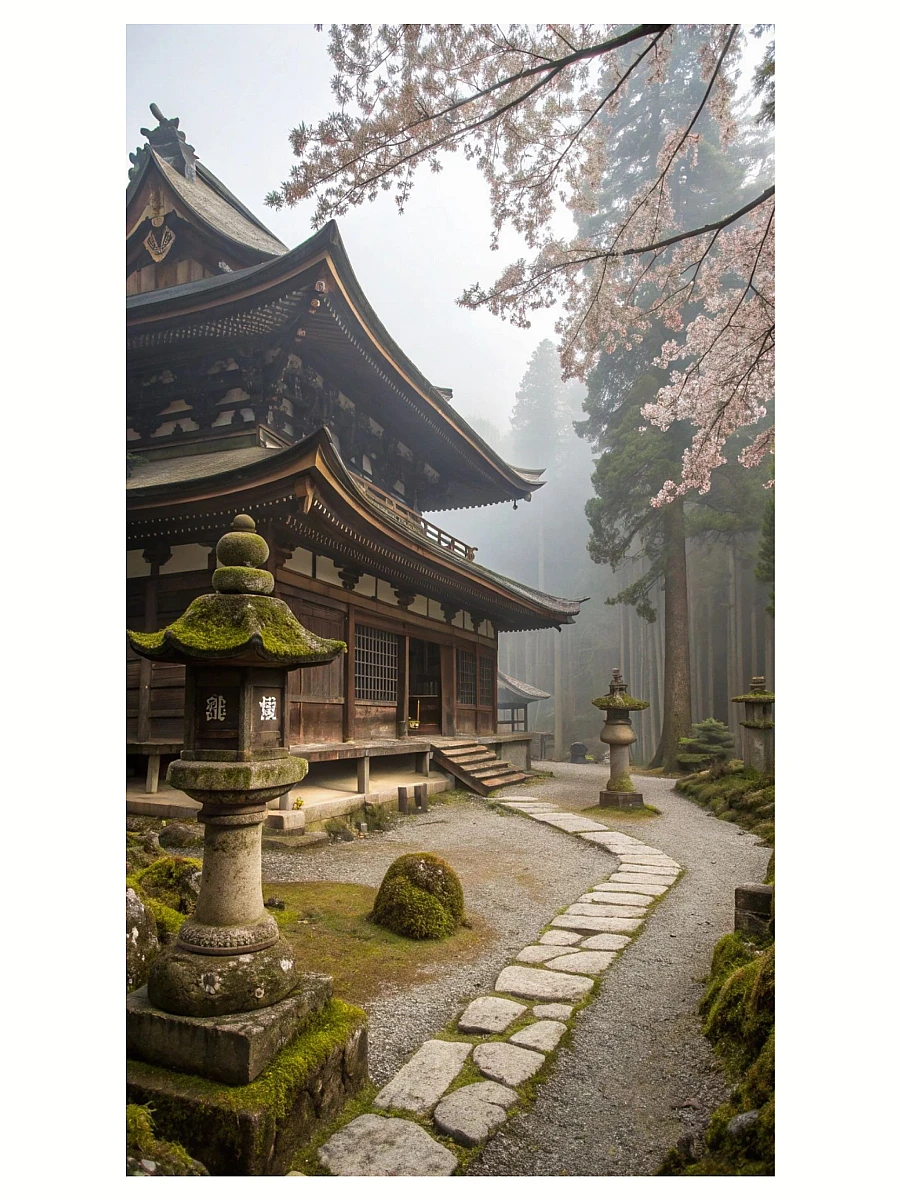
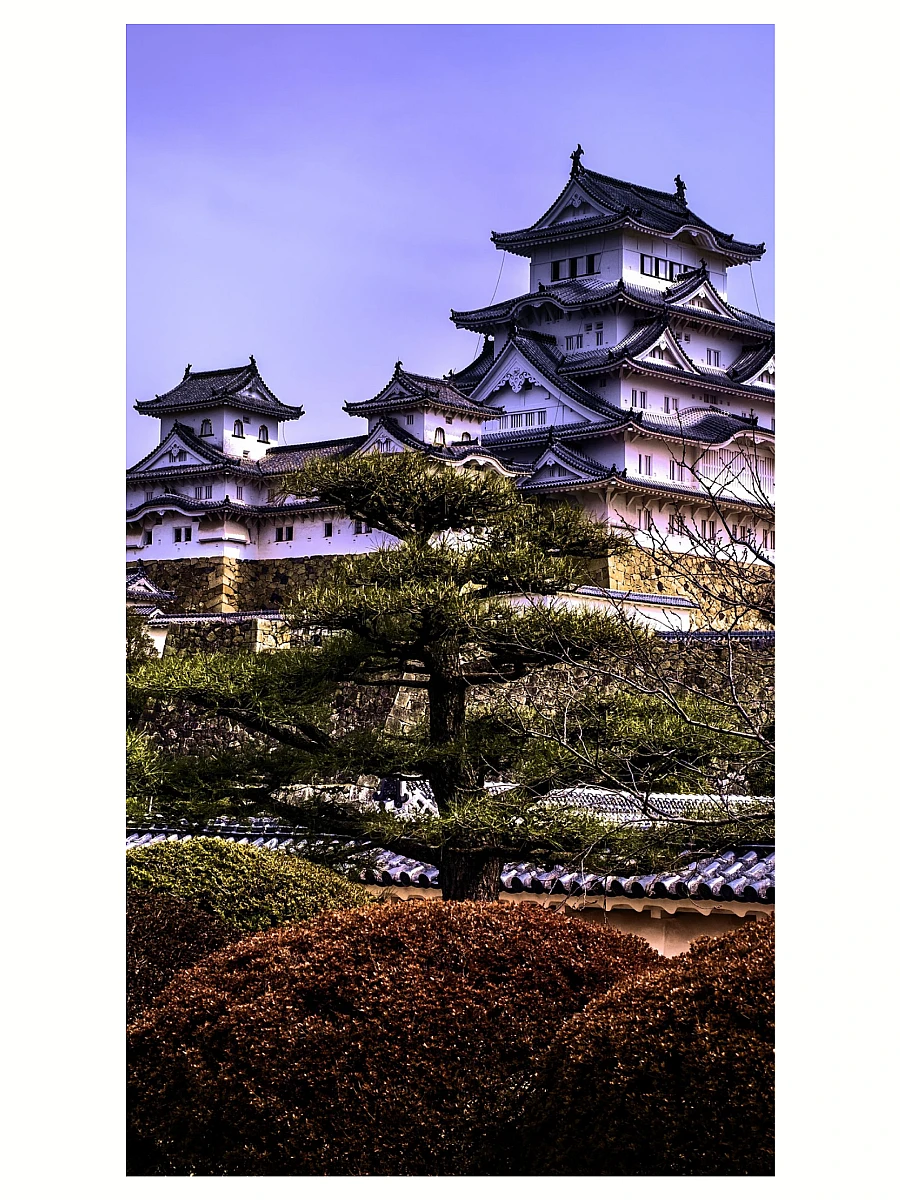
new version

diff --git a/public/start_pocket/js/functions/editor.js b/public/start_pocket/js/functions/editor.js
@@ -63,56 +63,6 @@ export default function initEditorProduct() {
   // delete
   // ============================================
 
-  /*
-  let deleteHandlerBound = false;
-
-  function setupDeleteHandler() {
-    if (deleteHandlerBound) return;
-    deleteHandlerBound = true;
-
-    if (!deleteBtn) return;
-
-    deleteBtn.addEventListener('click', async () => {
-      if (currentMode !== 'edit') return;
-
-      const outerId = idInput?.value?.trim();
-      if (!outerId) {
-        alert('Не найден outer_id для удаления.');
-        return;
-      }
-
-      const ok = confirm('ПОДТВЕРДИТЬ УДАЛЕНИЕ ПРОДУКТА?');
-      if (!ok) return;
-
-      const fd = new FormData();
-      fd.append('mode', 'delete');
-      fd.append('outer_id', outerId);
-      fd.append('slug', getSlug());
-
-      try {
-        const resp = await fetch('/editor', {
-          method: 'POST',
-          body: fd,
-          credentials: 'same-origin'
-        });
-
-        if (!resp.ok) throw new Error(`Ошибка удаления: ${resp.status}`);
-
-        const res = await resp.json();
-        if (res?.success) location.reload();
-        else alert(res?.error || 'Удаление не удалось');
-      } catch (err) {
-        console.error('❌ Ошибка:', err);
-        alert('Ошибка: ' + err.message);
-      }
-    });
-  }
-  // вызови один раз после того как заполнены idInput/deleteBtn
-  setupDeleteHandler();  
-  */
-
-  // предполагаем: deleteBtn, currentMode, idInput определены где-то выше
-
   function setupDeleteHandler() {
     if (!deleteBtn) return;
 
@@ -169,7 +119,7 @@ export default function initEditorProduct() {
 
   function setToolbarState(state) {
     currentMode = state;
-    console.log('Переход в режим:', state);
+    console.log('Переход в режим:', state); // test
 
     // outer_id (id) доступен только в режиме edit (обычно)
     const hasOuterId = !!idInput?.value?.trim();

diff --git a/public/start_pocket/js/main.js b/public/start_pocket/js/main.js
@@ -15,8 +15,10 @@ document.addEventListener('DOMContentLoaded', async () => {
 /********************** Editor **********************/
 
 document.addEventListener('DOMContentLoaded', async () => {
-  const { default: initEditorProduct } = await import('./functions/editor.js');
-  initEditorProduct();
+  if (window.__ROLE__ === 'master' || window.__ROLE__ === 'assistant') {
+    const { default: initEditorProduct } = await import('./functions/editor.js');
+    initEditorProduct();
+  }
 });
 
 /*********************** Tooltip ************************/
@@ -39,7 +41,12 @@ document.addEventListener("DOMContentLoaded", async () => {
   initAchievement();
 });
 
-/********************************************/
+/********************* Search Form ***********************/
+
+document.addEventListener('DOMContentLoaded', async () => {
+  const { initSearchForm } = await import('./functions/search_form.js');
+  initSearchForm({ formId: 'search', inputId: 'input' });
+});
 
 /**********************************************************/
 
@@ -466,10 +473,11 @@ $(document).ready(function() {
     window.scrollTo({ top: 0, behavior: 'smooth' });
   });
 
-  /* ------- развернуть форму поиска ------- *//*
-    
+  /* ------- развернуть форму поиска ------- */
+ 
+  /*
   $('#submit').on('click', function(e) {
-    .preventDefault();        
+    e.preventDefault();        
     let form = $(this).parent();
     let inputSearch = form.find('#input');
     inputSearch.toggleClass('hide').focus();
@@ -479,6 +487,11 @@ $(document).ready(function() {
     }
 
   });
+  */
+
+
+
+
 
   /* --- спрятать кнопку поиска при scroll --- *//*
   

diff --git a/public/start_pocket/js/functions/search_form.js b/public/start_pocket/js/functions/search_form.js
@@ -1,0 +1,35 @@
+export function initSearchForm({
+  buttonId = "submit",
+  inputId = "input"
+} = {}) {
+  $(document).on('click', '#' + buttonId, function (e) {
+    e.preventDefault();
+
+    const $form = $(this).closest('form');
+    const $input = $form.find('#' + inputId);
+
+    if ($form.length === 0 || $input.length === 0) return;
+
+    const isHidden = $input.hasClass('hide');
+    const hasValue = ($input.val() || "").trim().length > 0;
+
+    // 1-й клик: открыть
+    if (isHidden) {
+      $input.removeClass('hide').focus();
+      return;
+    }
+
+    // 2-й клик: если пусто — закрыть
+    if (!hasValue) {
+      $input.addClass('hide');
+      return;
+    }
+
+    // если заполнено — отправить
+    const formEl = $form[0];
+    if (formEl) {
+      (formEl.requestSubmit ? formEl.requestSubmit() : formEl.submit());
+    }
+  });
+}
+

diff --git a/public/start_pocket/js/functions/slider.js b/public/start_pocket/js/functions/slider.js
@@ -3,13 +3,13 @@ export function initSliders() {
   $("#slider-promo, #slider-popular").owlCarousel({
     autoplay: true,
     loop: true,
-    rewind: false,
+    //rewind: true,
     slideTransition: "linear",
     autoplayTimeout: 5000,
     autoplaySpeed: 5000,
     smartSpeed: 1000,
     navSpeed: 1000,
-    lazyLoad: false, //true,
+    lazyLoad: false,
     mouseDrag: true,
     touchDrag: true,
     autoplayHoverPause: true,
@@ -39,7 +39,7 @@ export function initSliders() {
     autoplaySpeed: 3000,
     smartSpeed: 1000,
     navSpeed: 1000,
-    lazyLoad: false,
+    lazyLoad: true,
     mouseDrag: true,
     touchDrag: true,
     autoplayHoverPause: true,

diff --git a/public/start_pocket/css/main.css b/public/start_pocket/css/main.css
@@ -2072,7 +2072,7 @@ a.page-link.last:hover span {
 /* ==== info block ==== */
 
 div.category_description {
-    font-size: 1.6rem;
+    font-size: 1.8rem;
     font-weight: 400;
     line-height: 2.4rem;
     color: var(--black-color);

diff --git a/app/Construct/views/product.php b/app/Construct/views/product.php
@@ -1,6 +1,8 @@
 <?php// dump($_SESSION); ?>  
 <?php //dump($_SERVER['REQUEST_URI']) ?>
 <?php if (session()->get('user.role') === 'master' || session()->get('user.role') === 'assistant'): ?>
+  <?php $role = $_SESSION['user']['role'] ?? null; ?>
+  <script>window.__ROLE__ = <?= json_encode($role); ?></script>
   <div id="admin-toolbar" class="admin-toolbar shadow-sm">
     <div class="container d-flex align-items-center gap-3">
       <button class="btn btn-sm btn-success" id="new-product-btn"

diff --git a/app/Construct/layouts/start.php b/app/Construct/layouts/start.php
@@ -420,10 +420,8 @@
             </div> <!-- /.modal-dialog -->
           </div> <!-- /.modal -->
 
-
-
-
           <?= $view_file; ?>
+
           <button id="top_btn" title="Перейти к началу"> 
             <i class="fa-solid fa-chevron-up"></i>
           </button>
